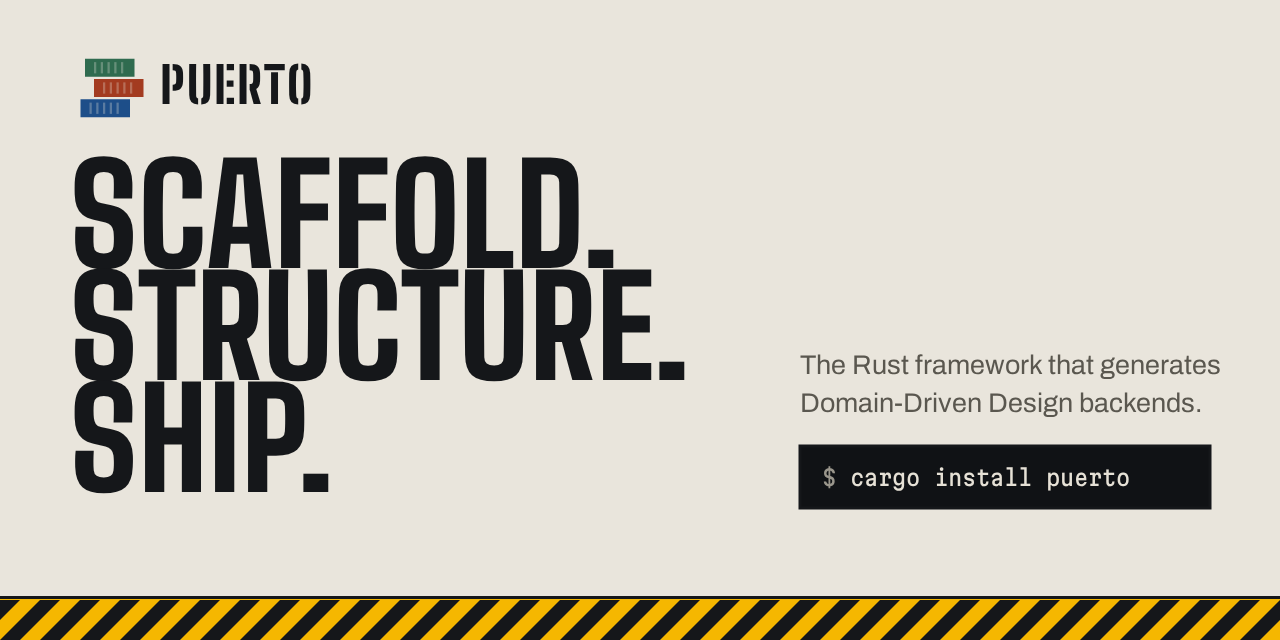
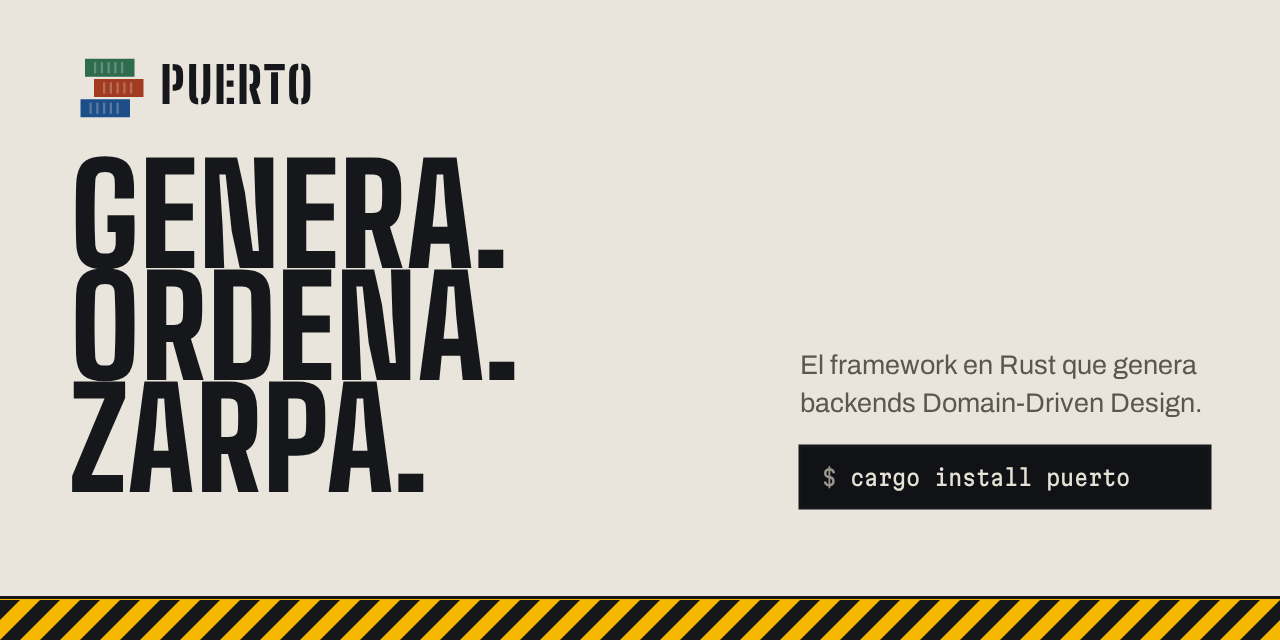
docs: el lema de la marca en castellano, «Genera. Ordena. Zarpa.» — Fase 23.2

Changed region(s): [[0.0312, 0.2188, 0.5625, 0.7812], [0.625, 0.5312, 0.9688, 0.6562], [0.0312, 0.75, 0.0625, 0.7812]]

diff --git a/README.md b/README.md
@@ -1,5 +1,5 @@
 <p align="center">
-  <img src="assets/brand/github-social.svg" alt="Puerto — Scaffold. Structure. Ship." width="100%"/>
+  <img src="assets/brand/github-social.svg" alt="Puerto — Genera. Ordena. Zarpa." width="100%"/>
 </p>
 
 <p align="center">
